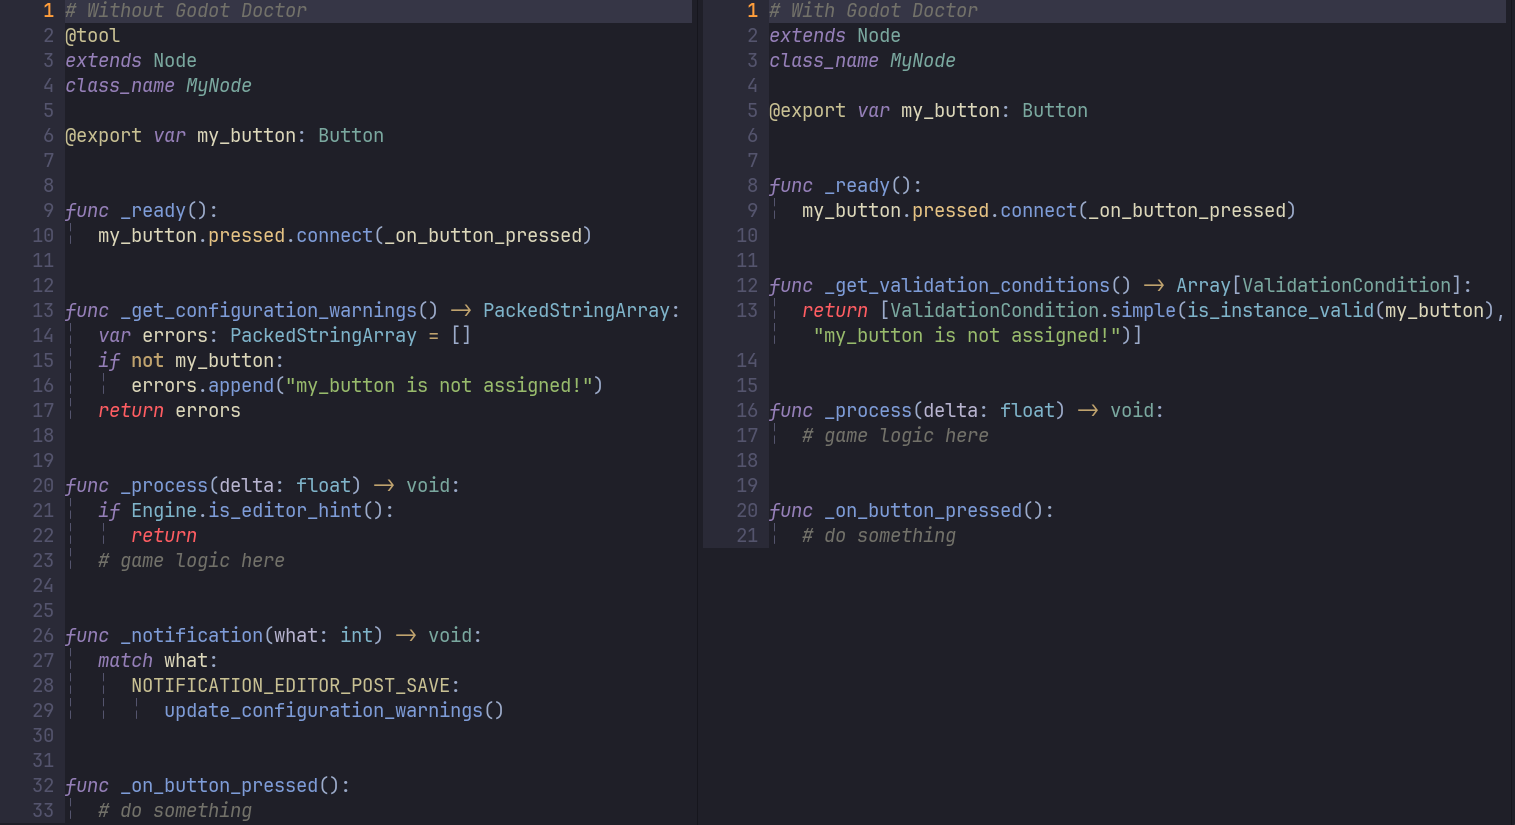
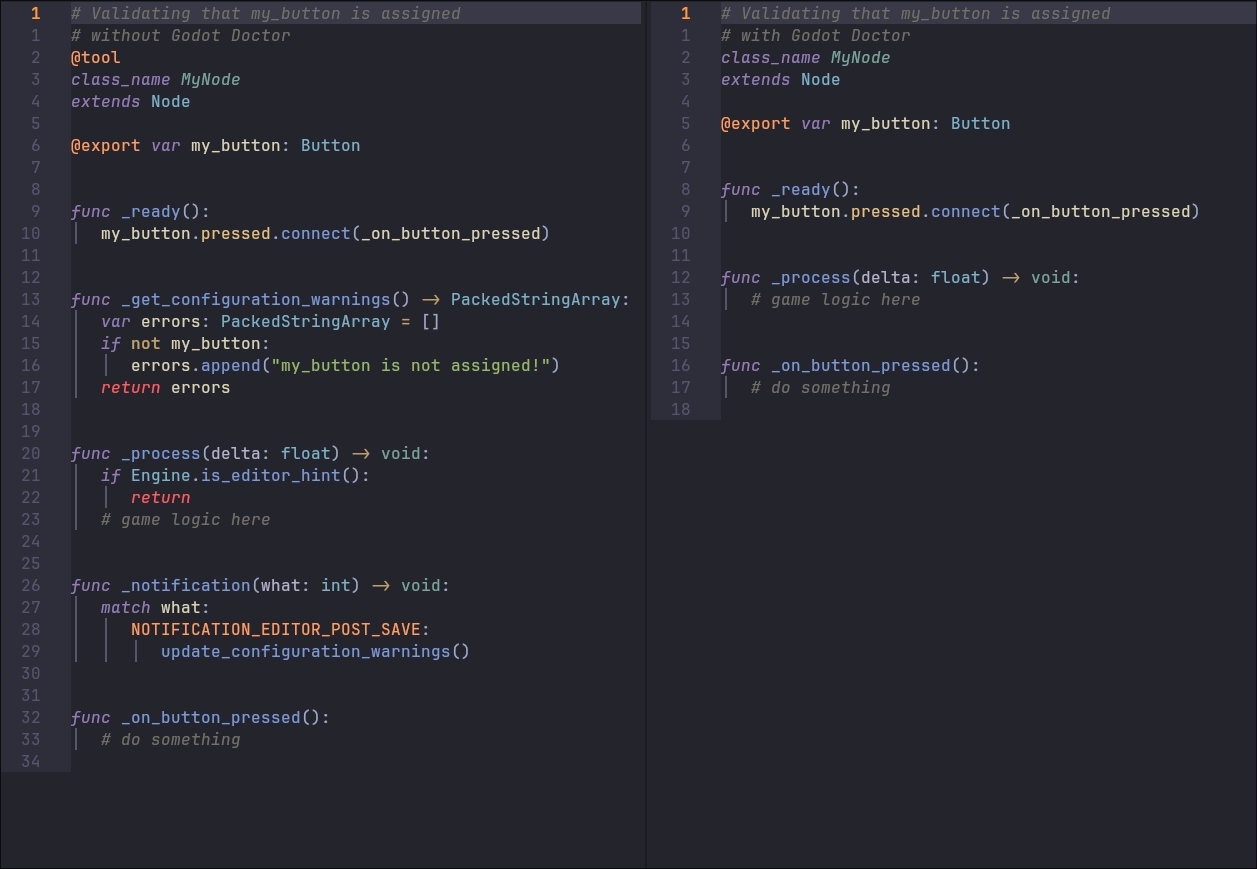
docs: update before after images

diff --git a/README.md b/README.md
@@ -13,6 +13,7 @@ A powerful validation plugin for Godot that catches errors before they reach run
 
 - [What is Godot Doctor?](#what-is-godot-doctor)
 - [Why Use Godot Doctor?](#why-use-godot-doctor)
+  - [ No-code validations]
   - [🏷 No `@tool` Required](#no-tool-required)
   - [🎬 Verify type of PackedScene](#verify-type-of-packedscene)
   - [🔄 Automatic Scene Validation](#automatic-scene-validation)
@@ -38,6 +39,13 @@ Godot Doctor is a Godot plugin that validates your scenes and nodes using a decl
 
 ## Why Use Godot Doctor?
 
+### **No-code default validations**
+
+Realistically, when you add any `@export` variables, you don't want them to stay unassigned. Nor do you want to `@export` a string only for it to stay empty. But we often forget to assign a value to these.
+So, new in Godot Doctor v1.1 are **default validation conditions**:
+
+Godot Doctor will validate any nodes that have scripts attached to them (and any opened resource), scan it's `@export` properties, and automatically reports on unassigned objects and empty strings, **without even needing to write a single line of validation code**!
+
 ### 🏷 **No `@tool` Required**
 
 Unlike [`_get_configuration_warnings()`](https://docs.godotengine.org/en/4.5/classes/class_node.html#class-node-private-method-get-configuration-warnings), Godot Doctor works without requiring the [`@tool`](https://docs.godotengine.org/en/4.5/tutorials/plugins/running_code_in_the_editor.html#what-is-tool) annotation on your scripts.
@@ -46,6 +54,10 @@ This means that you no longer have to worry about your gameplay code being muddi
 See the difference for yourself:
 
 ![Before and After Godot Doctor](./github_assets/png/before_after.png)
+
+Or how about this:
+
+![Before and After Godot Doctor](./github_assets/png/before_after_2.png)
 
 Our gameplay code stays much more clean and focused!
 
@@ -66,12 +78,7 @@ Errors are displayed in a dedicated dock, and you can click on them to navigate 
 
 ![Godot Doctor Example Gif](./github_assets/gif/doctor_example.gif)
 
-#### Default validation conditions
 
-Realistically, when you add any `@export` variables, you don't want them to stay unassigned. Nor do you want to `@export` a string only for it to stay empty. But we often forget to assign a value to these.
-So, new in Godot Doctor v1.1 are **default validation conditions**:
-
-Godot Doctor will validate any nodes that have scripts attached to them (and any opened resource), scan it's `@export` properties, and automatically reports on unassigned objects and empty strings, **without even needing to write a single line of validation code**!
 
 ### ⚙Validate Nodes AND Resources
 
